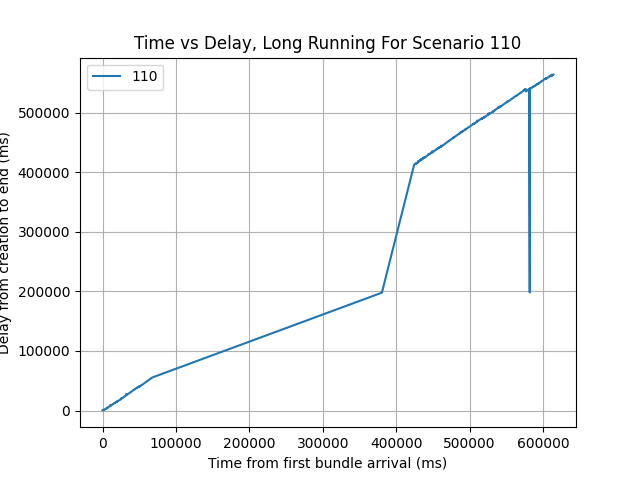
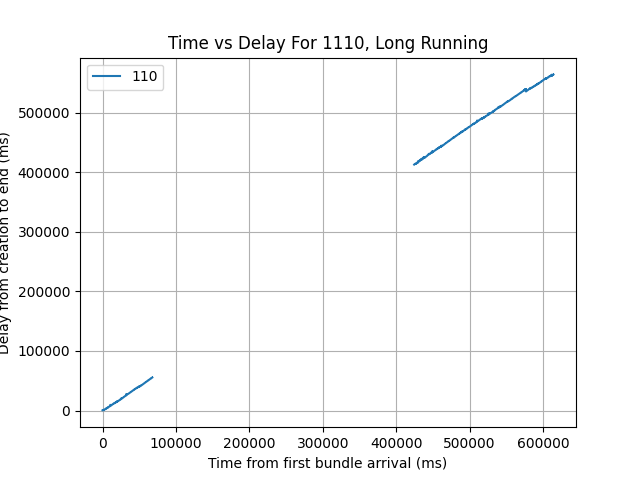
Fixed plots based on previous minor bug causing minor graph inaccuracies.

diff --git a/mininet/50s_sums_logs_and_graphs/EndToEndLONG.py b/mininet/50s_sums_logs_and_graphs/EndToEndLONG.py
@@ -12,6 +12,7 @@ import re
 import time
 import datetime
 import sys
+from math import nan
 
 #matplotlib
 from matplotlib import pyplot as plt  #plotting library
@@ -27,12 +28,68 @@ sims = []
 # sims.append((1001, "001"))
 # sims.append((1010, "010"))
 # sims.append((1011, "011"))
+
 sims.append((1100, "100"))
 sims.append((1101, "101"))
-# sims.append((1110, "110"))
+sims.append((1110, "110"))
 sims.append((1111, "111"))
+# plotTitle = 'Time vs Delay For 1111, Long Running'
+# plotTitle = 'Time vs Delay For High Density (No 110), Long Running'
+plotTitle = 'Time vs Delay For High Density, Long Running'
+# plotTitle = 'Time vs Delay For Low Density, Long Running'
+# filename = "EndToEndLONG111.png"
+# filename = "EndToEndLONGHighDensity_No110.png"
+filename = "EndToEndLONGHighDensity.png"
+# filename = "EndToEndLONGLowDensity.png"
+statusReportSize = 312 #found this out by manually checking the logs of all the sims
+MAX_TIME_GAP_TO_PLOT = 10000 #ms
+PLOT_STATUS_REPORTS = False
+
 x = []
 y = []
+xSR = []
+ySR = []
+
+def processSimData(bundles, leftShift = None):
+    # arrays to hold information about 1 simulation
+    xf = []
+    yf = []
+    min = 1000000000 if leftShift is None else leftShift #should probably be INF, in milliseconds
+
+    bundles.sort() #bundles: [(block timestamp, time since creation)]
+    for value in bundles:#find the first
+        if DEBUG: print(value)
+        timeMS = value[0] * 1000
+        xf.append(timeMS)
+        if timeMS < min:
+            min = timeMS
+        yf.append(value[1])
+    #shift all arrival times to the delta from the first received bundle
+    for i in range(len(xf)):
+        #could've used a lambda, but whatever
+        xf[i] -= min
+
+    #check for large gaps and don't fill in lines
+    prev = xf[0]
+    for i in range(1, len(xf)):
+        curr = xf[i]
+        if curr-prev > MAX_TIME_GAP_TO_PLOT:
+            xf.insert(i, nan)
+            xf.insert(i, nan)
+            yf.insert(i, nan)
+            yf.insert(i, nan)
+            i += 2
+        prev = curr
+
+
+    #debug
+    if DEBUG:
+        print(xf)
+        print(yf)
+
+    return xf, yf, min
+
+
 
 #create the one figure for all plots
 fig, ax = plt.subplots()
@@ -42,6 +99,7 @@ for f in range(len(sims)):
     #open the target record file
     file = open("logger_b.log.LONG." + str(sims[f][0]))
     bundles = []
+    bundleReports = []
     for line in file: # or stdin or whatever, could redirect file into stdin
         if "[NetStats]" in line:
             #split the line with the relevant information into time
@@ -57,7 +115,7 @@ for f in range(len(sims)):
             #grab the header and bundle info
             #sample line after "[NetStats]": "Bundle Received: from:b::to:a::creationTime:227462327::seqNum:0; Time (ms) since creation: 117; Size of bundle payload (bytes):88"
             results = re.split(';|:', parts[1]) #splits on all ":" or ";"
-            header = results[0].split(' ') #results[0] == "Bundle Received" or "Bundle Arrived" (assumption)
+            header = results[0].split(' ') #results[0] == "Bundle Received" or "Bundle Arrived" or "Bundle Sent" (assumption)
             #bundle = results[1] #unsure what this is, wrote the code many months ago but this variable doesn't appear to be used
 
             #useful validation statements
@@ -68,8 +126,11 @@ for f in range(len(sims)):
             if header[1] == "Bundle":
                 #if it is a status report about a bundle arriving or being deleted/dropped in transport
                 if header[2] == "Arrived" or header[2] == "Deleted":
-                    if DEBUG: print("  Info: " + str(currTime) + " " + str(int(results[13])))
-                    bundles.append((currTime, int(results[13])))#results[13] is time since creation
+                    if DEBUG: print("  Info: " + str(currTime) + " " + str(int(results[13])) + " size: " + str(int(results[15])))
+                    if int(results[15]) == statusReportSize: #check for status reports
+                        bundleReports.append((currTime, int(results[13])))#results[13] is time since creation
+                    else:
+                        bundles.append((currTime, int(results[13])))#results[13] is time since creation
 
             #FOR A MORE ROBUST IMPLEMENTATION, COMPLETE THE FOLLOWING STEPS:
             #todo:: most importantly, save time since creation at BPAReceiver in an array
@@ -80,37 +141,25 @@ for f in range(len(sims)):
     file.close()
 
     #plot Time From First Bundle Arrival (ms) vs Delay From Creation to End (ms)
-    # arrays to hold information about 1 simulation
-    xf = []
-    yf = []
-    min = 1000000000 #should probably be INF, in milliseconds
-    bundles.sort() #bundles: [(block timestamp, time since creation)]
-    for value in bundles:#find the first
-        if DEBUG: print(value)
-        timeMS = value[0] * 1000
-        xf.append(timeMS)
-        if timeMS < min:
-            min = timeMS
-        yf.append(value[1])
-    for i in range(len(xf)):#shift all arrival times to the delta from the first received bundle
-        #could've used a lambda, but whatever
-        xf[i] -= min
-    if DEBUG:
-        print(xf)
-        print(yf)
+    xf, yf, min = processSimData(bundles)#bundles: [(block timestamp, time since creation)]
     x.append(xf)
     y.append(yf)
+    if len(bundleReports) > 0 and PLOT_STATUS_REPORTS:
+        xfSR, yfSR, _ = processSimData(bundleReports, min)#same as bundles[]
+        xSR.append(xfSR)
+        ySR.append(yfSR)
 
 #plot all simulations at once (cleaner than doing them each iteration)
 for f in range(len(sims)):
-    ax.plot(x[f], y[f], label=sims[f][1])#plot with labels
+    ax.plot(x[f], y[f], marker=',', label=sims[f][1])#plot with labels
+    if len(bundleReports) > 0 and PLOT_STATUS_REPORTS:
+        ax.plot(xSR[f], ySR[f], linestyle='dashed', marker=',', label=sims[f][1] + " Status Reports")#plot with labels
 
 #format plot
-ax.set(xlabel='Time from first bundle arrival (ms)', ylabel='Delay from creation to end (ms)', title='Time vs Delay For High Density (No 110), Long Running')
+ax.set(xlabel=f'Time from first bundle arrival (ms)', ylabel='Delay from creation to end (ms)', title=plotTitle)
 ax.grid()
 ax.legend()
 
 #display plot
 #plt.show()#uncomment if working with jupyter, etc.
-fig.savefig("EndToEndLONGHighDensity_No110.png")#uncomment out this line to save to a file (recommended for command line)
-# fig.savefig("EndToEndLONGLowDensity.png")#uncomment out this line to save to a file (recommended for command line)
+fig.savefig(filename)#uncomment out this line to save to a file (recommended for command line)
